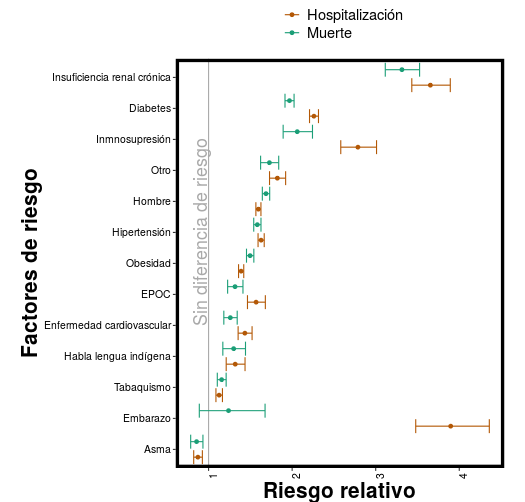
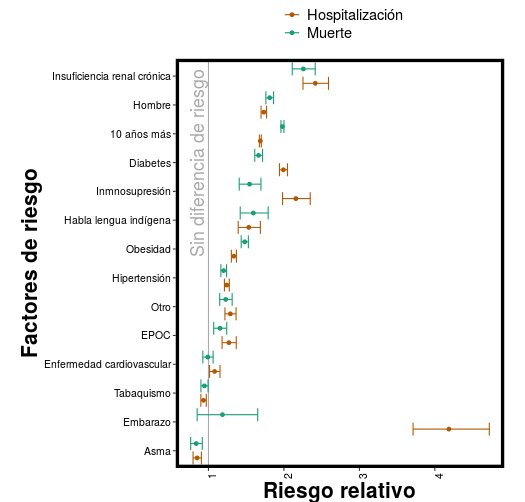
texto riesgos relativos
añadiendo vínculo a código

diff --git a/content/clinicos/riesgos_relativos.md b/content/clinicos/riesgos_relativos.md
@@ -2,23 +2,24 @@
 title: "¿Quién está en riesgo?"
 name: "riesgos_relativos"
 draft: false
-descripcion: '<p><strong>Todos estamos en riesgo</strong>. Para el 6 de mayo,
-123 (14%) de las 857 mujeres, y 857 (25%) de los 1847 hombres que
-fallecieron por COVID-19 no tenían ninguno de los factores de riesgo
-reportados. Sin embargo, ciertos factores pueden hacer más probable que
-una persona contagiada desarrolle enfermedad grave.</p>
+descripcion: '<p><b>Todos estamos en riesgo</b>. Para el 10 de
+julio, se ha confirmado el fallecimiento por COVID-19 de 2387 mujeres
+(edad media de 60 años) y 6410 hombres (edad media de 59 años) para
+quienes no se reporta ningún otro factor de riesgo. Esto representa el
+26% de los fallecimientos confirmados. Es posible que algunas de estas
+personas hayan tenido comorbilidades no detectadas, pero de todas formas
+estos números indican que el COVID-19 es una enfermedad peligrosa
+para todos.</p>
 
-<p>En México, podemos calcular el riesgo relativo de que pacientes
-con COVID-19 tengan que ser hospitalizados o terminen falleciendo por
-COVID-19. Una vez que descontamos el efecto de la edad, la insuficiencia renal
-crónica, diabetes, inmunosupresión, obesidad y enfermedad
-pulmonar obstructiva crónica (EPOC) son los mayores factores de riesgo.
-El asma no incrementa el riesgo, lo cual puede parecer raro pero hasta el
-momento
-<a href="https://www.aaaai.org/conditions-and-treatments/library/asthma-library/covid-asthma" target="_blank">no hay</a>
-<a href="https://time.com/5802423/coronvirus-asthma-high-risk/" target="_blank">evidencia</a>
-de que gente con asma tenga un mayor riesgo que los demás. Simplemente
-<strong>todos debemos extremar precauciones</strong>.</p>'
+<p>Sin embargo, hay condiciones demográficas, socioeconómicos y médicas
+que aumentan el riesgo para una persona con COVID-19.
+La gráfica muestra el riesgo relativo asociado con varios factores en México.
+Los resultados son similares a los de otros países: mayor edad, ser hombre,
+ser indígena, o padecer algunas enfermedades crónicas aumentan el
+riesgo por COVID-19.</p>
+
+<p>Los detalles para calcular estos estimados están
+<a href="https://github.com/coronamex/visualizando/blob/master/clinicos/riesgos_relativos.r" target="_blank">aquí</a>.</p>'
 imagen: "imagenes/riesgos_relativos.png"
 imagen2x: "imagenes/riesgos_relativos@2x.png"
 alt: 'Riesgo relativo de hospitalización y de entrar a cuidados
